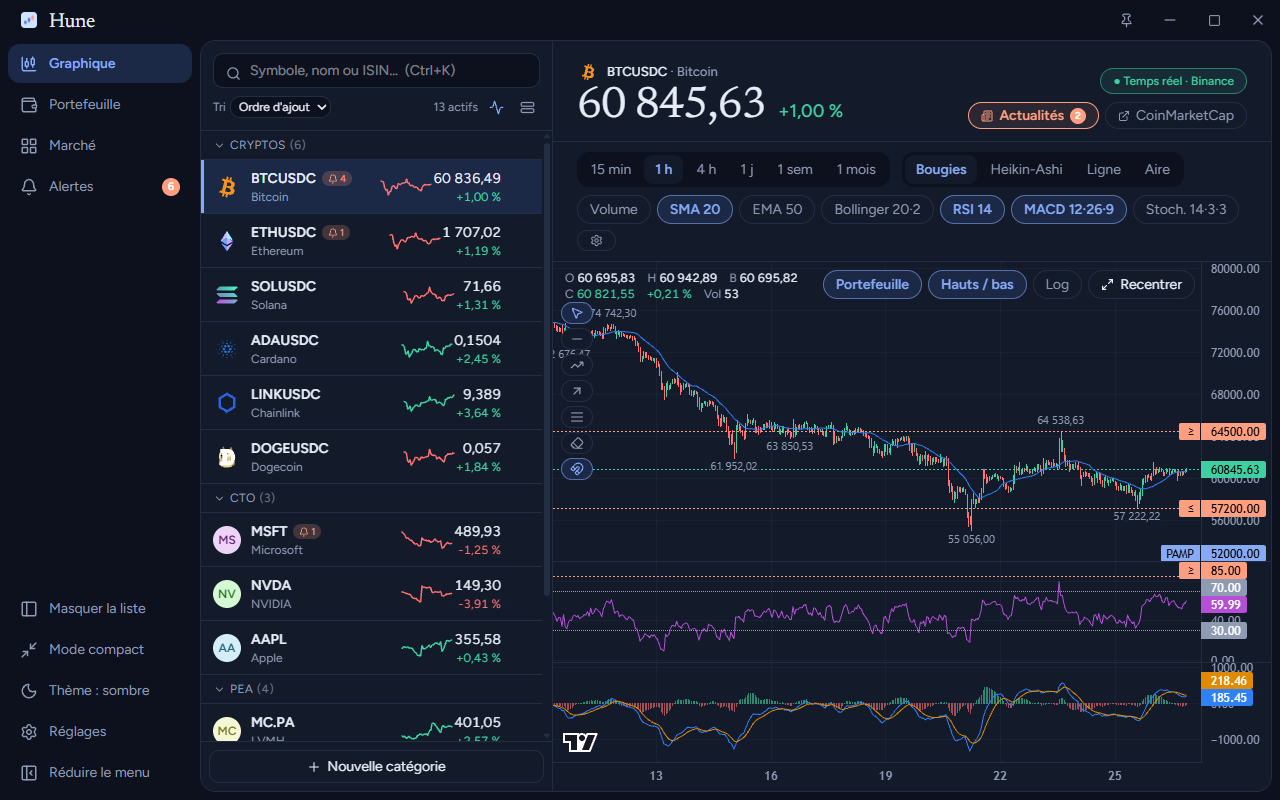
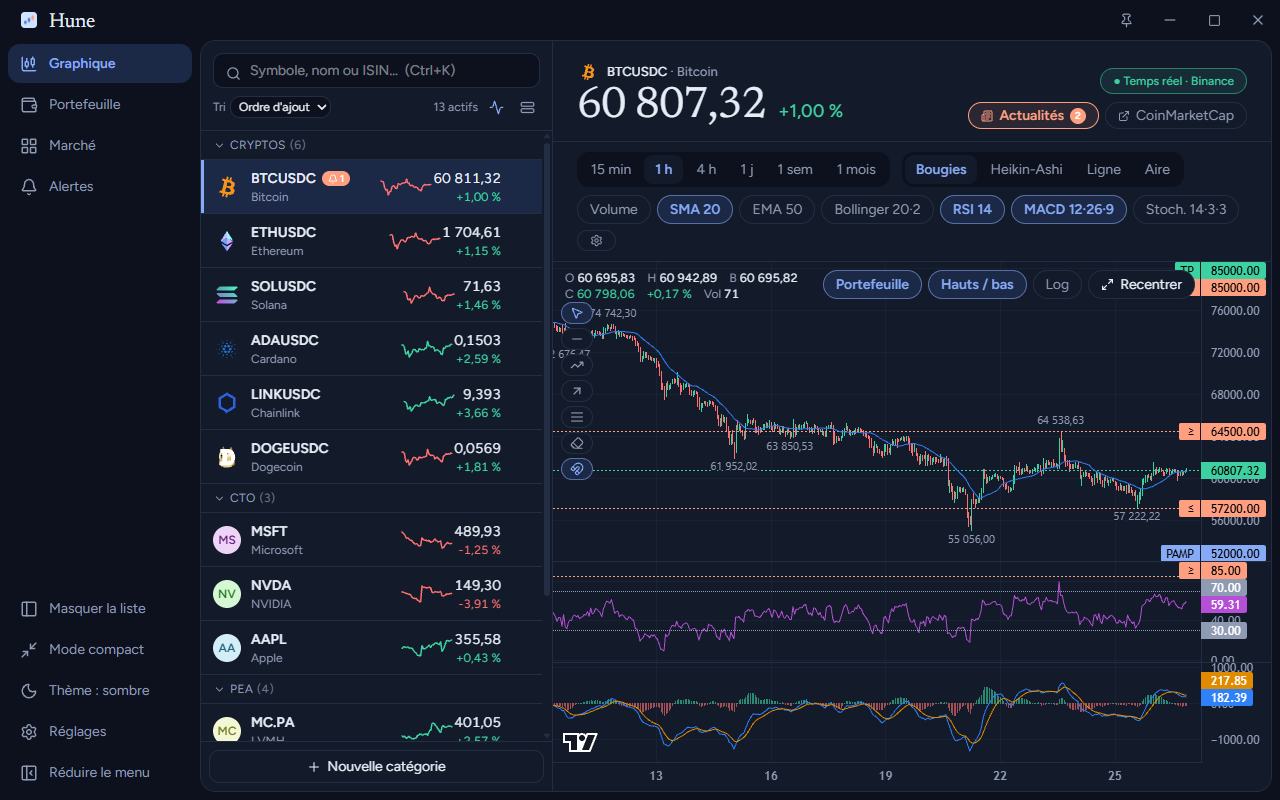
0.12.1 : pastilles sur alertes declenchees, alertes TP pour le portefeuille existant

diff --git a/src/App.tsx b/src/App.tsx
@@ -1,7 +1,7 @@
 import { Maximize2 } from "lucide-react";
 import { useCallback, useEffect, useMemo, useRef, useState } from "react";
 import { decrire, type Alerte } from "./alertes/moteur";
-import { synchroniserAlertesTp } from "./alertes/tp-auto";
+import { alertesTpManquantes, ignorerTp, lireIgnoresTp, reprendreTp, synchroniserAlertesTp } from "./alertes/tp-auto";
 import { notifier } from "./alertes/notifier";
 import { PanneauAlertes } from "./alertes/panneau";
 import { useVerificationAlertes } from "./alertes/verification";
@@ -276,6 +276,8 @@ export default function App() {
       const apres = modifier(avant);
       positionsRef.current = apres;
       setPositions(apres);
+      const parId = new Map(avant.map((p) => [p.id, p]));
+      reprendreTp(apres.filter((p) => parId.get(p.id)?.objectif !== p.objectif).map((p) => p.id));
       changerAlertes((l) => synchroniserAlertesTp(avant, apres, l, actifsRef.current, (cle) => cotationsRef.current[cle]?.prix, Date.now()));
     },
     [changerAlertes],
@@ -335,11 +337,40 @@ export default function App() {
   const groupes = useMemo(() => grouper(actifs, categories, tri, cotations), [actifs, categories, tri, cotations]);
   const cleVisibles = useMemo(() => groupes.filter((g) => !repliees.includes(g.nom)).flatMap((g) => g.actifs.map(cleActif)), [groupes, repliees]);
   const nbArmees = alertes.filter((a) => a.statut === "armee").length;
-  const alertesArmees = useMemo(() => {
+  /** Alertes déclenchées depuis la dernière visite de l'onglet Alertes : la pastille du menu. */
+  const [alertesVuLe, setAlertesVuLe] = useState(() => Number(localStorage.getItem("hune.alertes.vu") ?? 0));
+  useEffect(() => {
+    if (onglet !== "alertes") return;
+    const maintenant = Date.now();
+    localStorage.setItem("hune.alertes.vu", String(maintenant));
+    setAlertesVuLe(maintenant);
+  }, [onglet, alertes]);
+  const nbNouvellesDeclenchees = alertes.filter((a) => a.statut === "declenchee" && (a.declencheeLe ?? 0) > alertesVuLe).length;
+  /** Alertes déclenchées par actif : la pastille de la liste, jusqu'à ce qu'on les réarme ou les supprime. */
+  const alertesDeclenchees = useMemo(() => {
     const m: Record<string, number> = {};
-    for (const a of alertes) if (a.statut === "armee") m[cleActif(a.actif)] = (m[cleActif(a.actif)] ?? 0) + 1;
+    for (const a of alertes) if (a.statut === "declenchee") m[cleActif(a.actif)] = (m[cleActif(a.actif)] ?? 0) + 1;
     return m;
   }, [alertes]);
+
+  // Portefeuille existant : crée l'alerte « prix ≥ objectif » des objectifs saisis avant que cela soit automatique (une seule fois par objectif,
+  // sauf si l'utilisateur a supprimé cette alerte). Attend les cours pour ne rien créer pour un objectif déjà atteint.
+  useEffect(() => {
+    if (!pret) return;
+    const nouvelles = alertesTpManquantes(positions, alertes, actifs, (cle) => cotations[cle]?.prix, lireIgnoresTp(), Date.now());
+    if (nouvelles.length) changerAlertes((l) => [...l, ...nouvelles]);
+  }, [pret, positions, alertes, actifs, cotations, changerAlertes]);
+
+  /** Supprime une alerte ; si elle venait d'un objectif (TP), on ne la recrée pas automatiquement. */
+  const supprimerAlerte = useCallback(
+    (id: string) =>
+      changerAlertes((l) => {
+        const a = l.find((x) => x.id === id);
+        if (a?.tpLot) ignorerTp(a.tpLot);
+        return l.filter((x) => x.id !== id);
+      }),
+    [changerAlertes],
+  );
   const alertesPrixHaut = useMemo(() => alertes.filter((a) => a.statut === "armee" && a.condition.type === "prix" && a.condition.sens === "au-dessus").map((a) => ({ cle: cleActif(a.actif), seuil: (a.condition as { seuil: number }).seuil })), [alertes]);
 
   // Info-bulle de l'icône de la zone de notification.
@@ -431,7 +462,7 @@ export default function App() {
       categories={categories}
       repliees={repliees}
       cotations={cotations}
-      alertesArmees={alertesArmees}
+      alertesDeclenchees={alertesDeclenchees}
       selection={selection}
       tri={tri}
       surTri={setTri}
@@ -484,7 +515,7 @@ export default function App() {
             listeVisible={ui.listeVisible}
             listeApplicable={onglet === "graphique"}
             surBasculerListe={() => setUi({ ...ui, listeVisible: !ui.listeVisible })}
-            alertesArmees={nbArmees}
+            nouvellesDeclenchees={nbNouvellesDeclenchees}
             majDisponible={maj.etat.etat === "disponible" ? maj.etat.version : null}
             theme={reglages.theme}
             surBasculerTheme={basculerTheme}
@@ -566,7 +597,7 @@ export default function App() {
                         setAlerteAEditer(id);
                         setOnglet("alertes");
                       }}
-                      surSupprimerAlerte={(id) => changerAlertes((l) => l.filter((a) => a.id !== id))}
+                      surSupprimerAlerte={supprimerAlerte}
                       niveaux={niveaux}
                       lignesPortefeuille={lignesPortefeuille}
                       surLignesPortefeuille={setLignesPortefeuille}
@@ -616,7 +647,7 @@ export default function App() {
                     prevenir(`Alerte modifiée et réarmée : ${m.actif.symbole} ${decrire(m.condition)}`);
                   }}
                   surRearmement={(id) => changerAlertes((l) => l.map((a) => (a.id === id ? { ...a, statut: "armee", creeeLe: Date.now(), declencheeLe: undefined, valeur: undefined } : a)))}
-                  surSuppression={(id) => changerAlertes((l) => l.filter((a) => a.id !== id))}
+                  surSuppression={supprimerAlerte}
                   surOuvrirActif={ouvrirActif}
                   editerId={alerteAEditer}
                   surEditionOuverte={() => setAlerteAEditer(null)}

diff --git a/src/alertes/tp-auto.ts b/src/alertes/tp-auto.ts
@@ -35,3 +35,54 @@ export function synchroniserAlertesTp(avant: Position[], apres: Position[], aler
   }
   return resultat;
 }
+
+const CLE_IGNORES = "hune.tpIgnores";
+
+/** Lots dont l'utilisateur a supprimé l'alerte TP : on ne la recrée pas tant que leur objectif ne change pas. */
+export function lireIgnoresTp(): Set<string> {
+  try {
+    const brut = JSON.parse(localStorage.getItem(CLE_IGNORES) ?? "[]") as unknown;
+    return new Set(Array.isArray(brut) ? brut.filter((x): x is string => typeof x === "string") : []);
+  } catch {
+    return new Set();
+  }
+}
+
+function ecrireIgnoresTp(s: Set<string>): void {
+  try {
+    localStorage.setItem(CLE_IGNORES, JSON.stringify([...s]));
+  } catch {
+    // stockage indisponible : l'alerte pourra être recréée, sans gravité
+  }
+}
+
+export function ignorerTp(lotId: string): void {
+  ecrireIgnoresTp(new Set([...lireIgnoresTp(), lotId]));
+}
+
+export function reprendreTp(lotsIds: string[]): void {
+  if (!lotsIds.length) return;
+  const s = lireIgnoresTp();
+  let change = false;
+  for (const id of lotsIds) change = s.delete(id) || change;
+  if (change) ecrireIgnoresTp(s);
+}
+
+/**
+ * Alertes TP manquantes pour les objectifs déjà saisis (portefeuille existant) : un lot dont l'objectif est encore au-dessus
+ * d'un prix connu, sans alerte (de n'importe quel statut) à ce seuil, et dont l'utilisateur n'a pas supprimé l'alerte.
+ */
+export function alertesTpManquantes(positions: Position[], alertes: Alerte[], actifs: Actif[], prixDe: (cle: string) => number | undefined, ignores: Set<string>, maintenant: number): Alerte[] {
+  const sortie: Alerte[] = [];
+  for (const lot of positions) {
+    if (lot.objectif == null || !(lot.objectif > 0) || ignores.has(lot.id)) continue;
+    const prix = prixDe(lot.cle);
+    if (prix == null || lot.objectif <= prix) continue;
+    const actif = actifs.find((a) => cleActif(a) === lot.cle);
+    if (!actif) continue;
+    const dejaLa = [...alertes, ...sortie].some((a) => a.condition.type === "prix" && a.condition.sens === "au-dessus" && a.condition.seuil === lot.objectif && cleActif(a.actif) === lot.cle);
+    if (dejaLa) continue;
+    sortie.push({ id: crypto.randomUUID(), actif, condition: { type: "prix", sens: "au-dessus", seuil: lot.objectif }, statut: "armee", creeeLe: maintenant, tpLot: lot.id });
+  }
+  return sortie;
+}

diff --git a/src/rail.tsx b/src/rail.tsx
@@ -23,7 +23,8 @@ interface Props {
   /** La liste d'actifs n'existe que sur l'onglet Graphique : le bouton n'a de sens que là. */
   listeApplicable: boolean;
   surBasculerListe: () => void;
-  alertesArmees: number;
+  /** Alertes déclenchées depuis la dernière visite de l'onglet Alertes. */
+  nouvellesDeclenchees: number;
   majDisponible: string | null;
   theme: PreferenceTheme;
   surBasculerTheme: () => void;
@@ -31,7 +32,7 @@ interface Props {
 }
 
 /** Navigation latérale : icônes seules en mode réduit, avec info-bulles. */
-export function Rail({ onglet, surOnglet, reduit, surReduire, listeVisible, listeApplicable, surBasculerListe, alertesArmees, majDisponible, theme, surBasculerTheme, surCompact }: Props) {
+export function Rail({ onglet, surOnglet, reduit, surReduire, listeVisible, listeApplicable, surBasculerListe, nouvellesDeclenchees, majDisponible, theme, surBasculerTheme, surCompact }: Props) {
   const IconeTheme = ICONE_THEME[theme];
   const action = (icone: LucideIcon, libelle: string, onClick: () => void, titre = libelle) => {
     const Icone = icone;
@@ -47,12 +48,12 @@ export function Rail({ onglet, surOnglet, reduit, surReduire, listeVisible, list
     <button key={id} className="nav-item" aria-current={onglet === id ? "page" : undefined} onClick={() => surOnglet(id)} title={`${libelle} (${touche})`}>
       <Icone size={18} />
       {!reduit && <span className="flex-1">{libelle}</span>}
-      {id === "alertes" && alertesArmees > 0 && (
+      {id === "alertes" && nouvellesDeclenchees > 0 && (
         <span
           className={`grid h-[18px] min-w-[18px] place-items-center rounded-full bg-alerte px-1 text-[11px] font-semibold leading-none text-white ${reduit ? "absolute right-1 top-1" : ""}`}
-          title={`${alertesArmees} alerte${alertesArmees > 1 ? "s" : ""} armée${alertesArmees > 1 ? "s" : ""}`}
+          title={`${nouvellesDeclenchees} alerte${nouvellesDeclenchees > 1 ? "s" : ""} déclenchée${nouvellesDeclenchees > 1 ? "s" : ""} depuis votre dernière visite`}
         >
-          {alertesArmees}
+          {nouvellesDeclenchees}
         </span>
       )}
     </button>

diff --git a/src/alertes/tp-auto.test.ts b/src/alertes/tp-auto.test.ts
@@ -2,7 +2,7 @@ import { describe, expect, it } from "vitest";
 import type { Actif } from "../donnees/types";
 import type { Position } from "../portefeuille";
 import type { Alerte } from "./moteur";
-import { synchroniserAlertesTp } from "./tp-auto";
+import { alertesTpManquantes, synchroniserAlertesTp } from "./tp-auto";
 
 const actif: Actif = { source: "yahoo", symbole: "TTWO", nom: "Take-Two" };
 const cle = "yahoo:TTWO";
@@ -47,5 +47,25 @@ describe("alertes TP automatiques", () => {
 
   it("crée l'alerte même si le prix n'est pas encore connu", () => {
     expect(sync([lot()], [lot(250)], [], () => undefined)).toHaveLength(1);
+  });
+});
+
+describe("alertesTpManquantes", () => {
+  const p = (objectif?: number, id = "l1"): Position => ({ id, cle, quantite: 1, objectif });
+  const manquantes = (positions: Position[], alertes: Alerte[] = [], ignores = new Set<string>(), prixDe: (c: string) => number | undefined = prix) => alertesTpManquantes(positions, alertes, [actif], prixDe, ignores, 1000);
+
+  it("crée l'alerte des objectifs déjà saisis, encore au-dessus du prix", () => {
+    const r = manquantes([p(250), p(225, "l2"), p(undefined, "l3")]);
+    expect(r).toHaveLength(1);
+    expect(r[0]).toMatchObject({ tpLot: "l1", condition: { seuil: 250 } });
+  });
+  it("n'en crée pas sans prix connu, pour un lot ignoré ou si une alerte existe déjà à ce seuil (même déclenchée)", () => {
+    expect(manquantes([p(250)], [], new Set(), () => undefined)).toHaveLength(0);
+    expect(manquantes([p(250)], [], new Set(["l1"]))).toHaveLength(0);
+    const declenchee: Alerte = { id: "d", actif, condition: { type: "prix", sens: "au-dessus", seuil: 250 }, statut: "declenchee", creeeLe: 1 };
+    expect(manquantes([p(250)], [declenchee])).toHaveLength(0);
+  });
+  it("ne double pas deux lots au même objectif", () => {
+    expect(manquantes([p(250), p(250, "l2")])).toHaveLength(1);
   });
 });

diff --git a/src/watchlist.tsx b/src/watchlist.tsx
@@ -14,7 +14,8 @@ interface Props {
   repliees: string[];
   cotations: Record<string, Cotation>;
   /** Nombre d'alertes armées par actif (clé `source:symbole`). */
-  alertesArmees: Record<string, number>;
+  /** Alertes déclenchées par actif (clé `source:symbole`). */
+  alertesDeclenchees: Record<string, number>;
   selection: string | null;
   tri: Tri;
   surTri: (t: Tri) => void;
@@ -236,7 +237,7 @@ export function Watchlist(p: Props) {
                   {g.actifs.map((a) => {
                     const cle = cleActif(a);
                     const c = p.cotations[cle];
-                    const nbAlertes = p.alertesArmees[cle] ?? 0;
+                    const nbAlertes = p.alertesDeclenchees[cle] ?? 0;
                     return (
                       <li
                         key={cle}
@@ -251,7 +252,7 @@ export function Watchlist(p: Props) {
                           <div className="flex items-center gap-1.5 whitespace-nowrap font-semibold">
                             {a.symbole}
                             {nbAlertes > 0 && (
-                              <span title={`${nbAlertes} alerte${nbAlertes > 1 ? "s" : ""} armée${nbAlertes > 1 ? "s" : ""}`} className="inline-flex items-center gap-0.5 rounded-full bg-alerte/20 px-1.5 text-[10px] font-normal text-alerte">
+                              <span title={`${nbAlertes} alerte${nbAlertes > 1 ? "s" : ""} déclenchée${nbAlertes > 1 ? "s" : ""}`} className="inline-flex items-center gap-0.5 rounded-full bg-alerte px-1.5 text-[10px] font-semibold text-white">
                                 <Bell size={10} /> {nbAlertes}
                               </span>
                             )}

diff --git a/README.md b/README.md
@@ -54,7 +54,7 @@ Prix, variation en %, RSI, cours qui franchit une moyenne mobile, croisement MAC
 
 ### Portefeuille
 
-Saisissez vos lots (quantité, prix d'achat moyen, objectif, plateforme) : Hune calcule la **valeur en euros ou en dollars** (bascule d'un clic, choix mémorisé, conversion des devises), le **P&L latent**, le poids de chaque ligne, la distance à l'objectif et la répartition par catégorie et par plateforme. Chaque objectif crée tout seul son alerte « prix ≥ objectif » (elle suit l'objectif si vous le modifiez), et un bouton crée celles des objectifs déjà saisis. Le PAMP et l'objectif se notent en euros ou en dollars, quelle que soit la devise de cotation de l'actif : la devise choisie est mémorisée par lot et Hune fait les conversions partout. Vous avez un historique d'achats et de ventes (export CoinMarketCap, courtier, exchange) ? **Importez le CSV** : Hune reconstitue quantités et prix d'achat moyens, et vous montre le résultat avant d'écrire quoi que ce soit.
+Saisissez vos lots (quantité, prix d'achat moyen, objectif, plateforme) : Hune calcule la **valeur en euros ou en dollars** (bascule d'un clic, choix mémorisé, conversion des devises), le **P&L latent**, le poids de chaque ligne, la distance à l'objectif et la répartition par catégorie et par plateforme. Chaque objectif crée tout seul son alerte « prix ≥ objectif » (elle suit l'objectif si vous le modifiez), et Hune crée au lancement celles des objectifs déjà saisis (supprimez une alerte, elle ne revient pas). Une pastille rouge signale les alertes et objectifs atteints. Le PAMP et l'objectif se notent en euros ou en dollars, quelle que soit la devise de cotation de l'actif : la devise choisie est mémorisée par lot et Hune fait les conversions partout. Vous avez un historique d'achats et de ventes (export CoinMarketCap, courtier, exchange) ? **Importez le CSV** : Hune reconstitue quantités et prix d'achat moyens, et vous montre le résultat avant d'écrire quoi que ce soit.
 
 Un **graphique de l'évolution de la valeur** (24 h à tout l'historique, reconstitué localement à partir de vos transactions et des cours), la variation du jour, la **base de coût**, la meilleure et la moins bonne performance, un **filtre par plateforme** (Ledger, PEA, exchange…) et un onglet **Transactions** (avec le **gain réalisé** de chaque vente) complètent la vue ; répartition en **camembert**, et **export CSV** des positions et des transactions pour Excel. Les cryptos s'affichent avec leur **icône**, embarquée dans l'application : aucune image n'est téléchargée, donc rien ne révèle ce que vous suivez.
 

diff --git a/CHANGELOG.md b/CHANGELOG.md
@@ -3,6 +3,14 @@
 Toutes les évolutions notables de Hune. Format inspiré de [Keep a Changelog](https://keepachangelog.com/fr/1.1.0/) ; les versions suivent [SemVer](https://semver.org/lang/fr/).
 Le texte de chaque version sert de notes pour la release GitHub (`scripts/publier.ps1`).
 
+## [0.12.1] - 2026-11-26
+
+### Modifié
+- **Pastilles d'alerte** : elles signalent désormais une alerte ou un objectif (TP) **atteint**, plus une alerte créée. Dans le menu, la pastille de « Alertes » compte les alertes déclenchées depuis votre dernière visite de l'onglet (elle disparaît quand vous l'ouvrez). Dans la liste d'actifs, la pastille rouge indique les alertes déclenchées de l'actif, jusqu'à ce que vous les réarmiez ou les supprimiez.
+
+### Ajouté
+- **Alertes TP pour le portefeuille existant** : au lancement, Hune crée l'alerte « prix ≥ objectif » des objectifs déjà saisis qui n'en ont pas et ne sont pas encore atteints (une seule fois par objectif, sans doublon avec une alerte existante). Si vous supprimez l'alerte d'un objectif, elle n'est pas recréée tant que vous ne changez pas cet objectif. Le bouton « Alertes aux objectifs » reste disponible.
+
 ## [0.12.0] - 2026-11-26
 
 ### Ajouté
